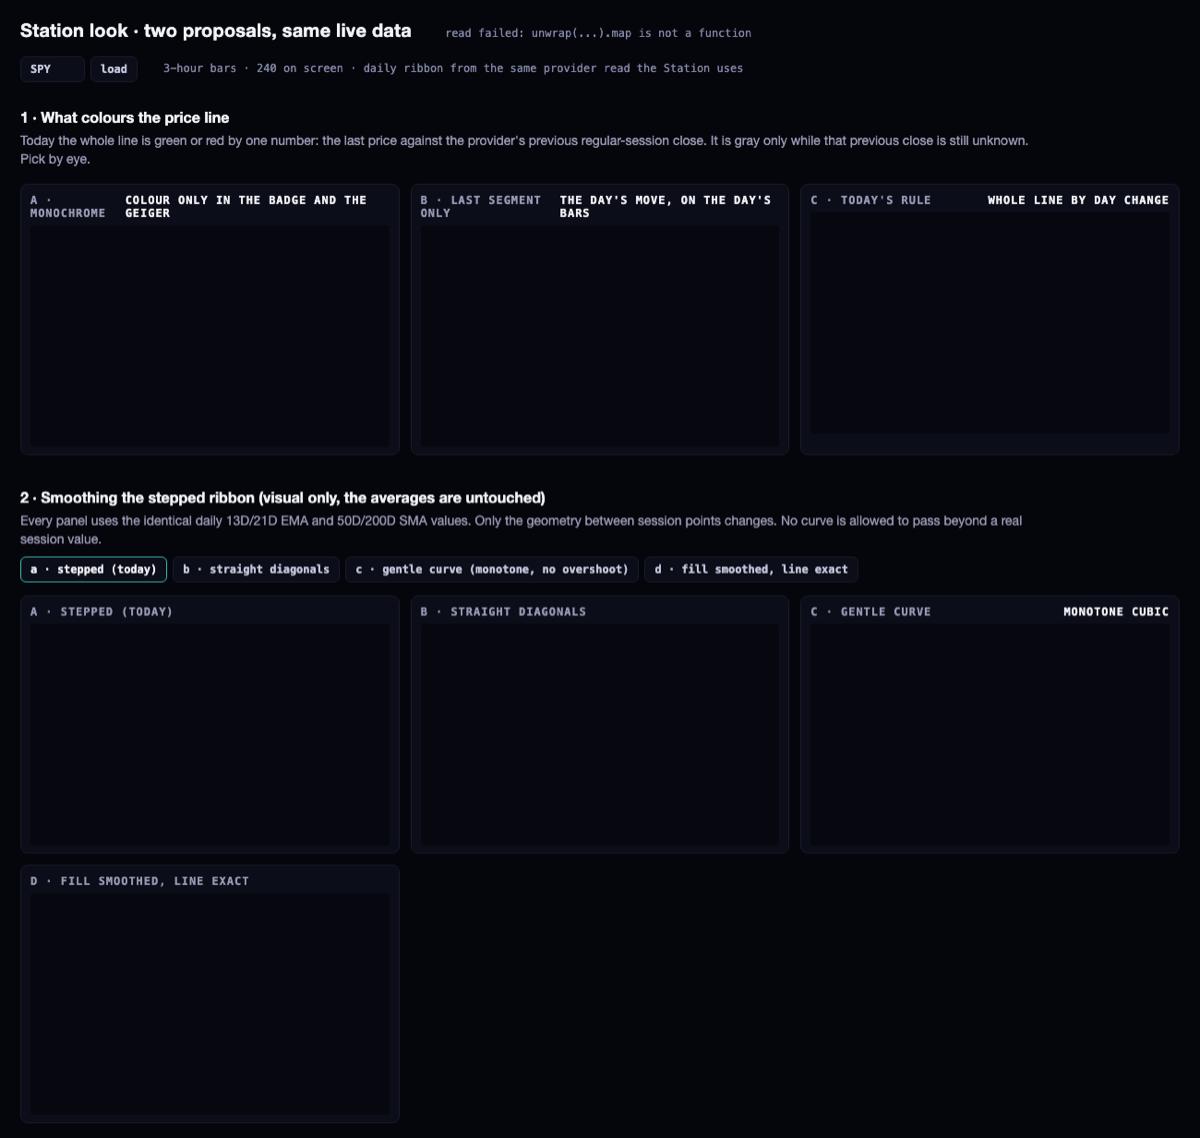
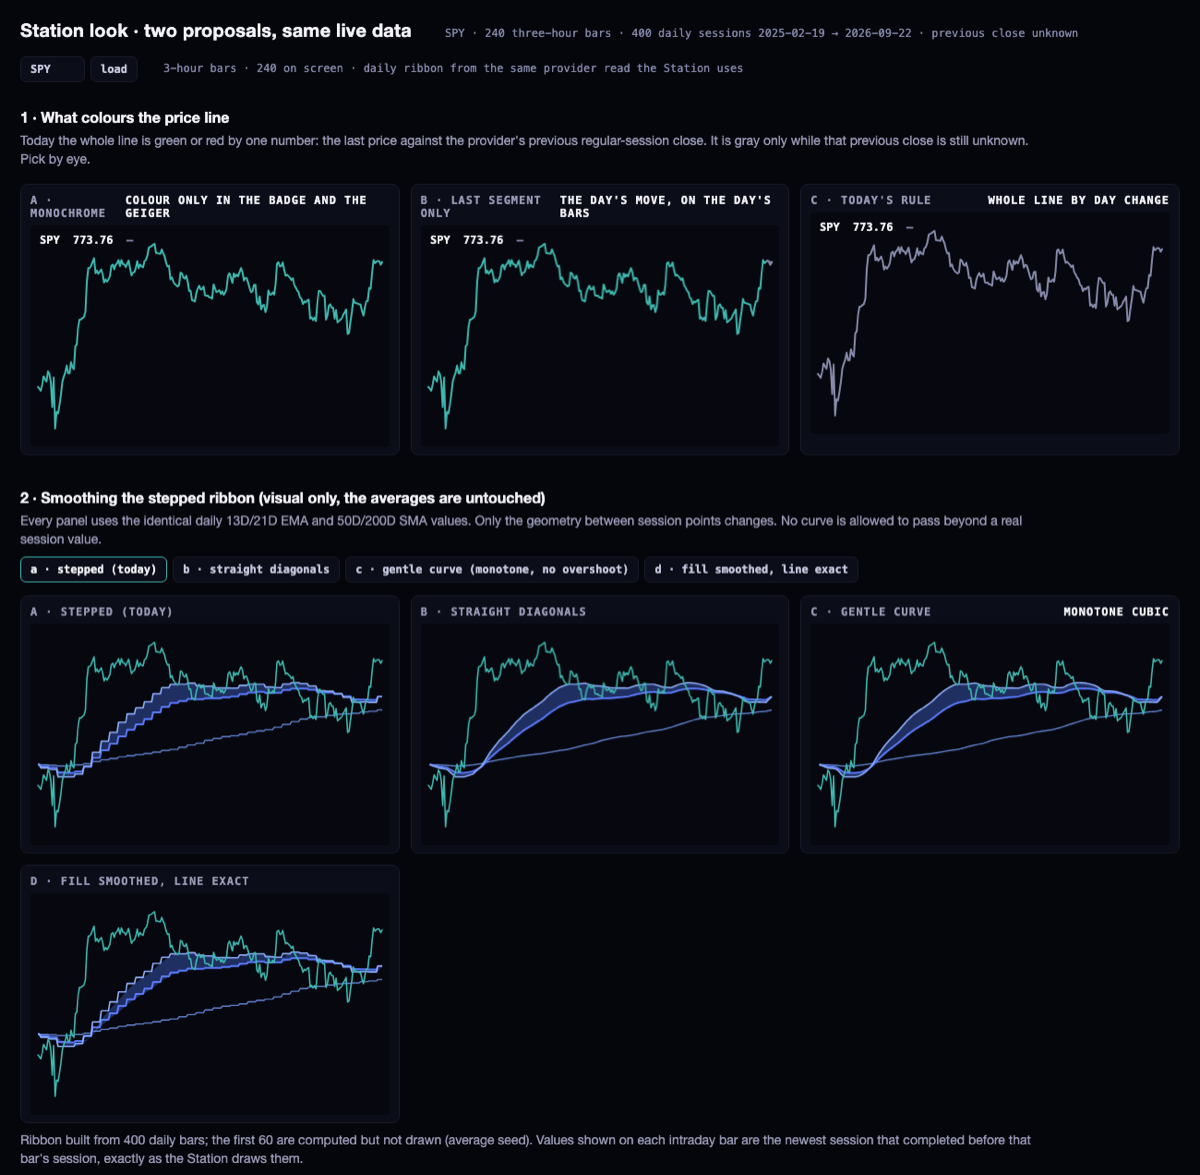
proposals page: read the bar array the chart API actually returns

diff --git a/proposals/station-look/index.html b/proposals/station-look/index.html
@@ -49,7 +49,7 @@ canvas{ width:100%; height:240px; display:block; background:#07080f; border-radi
 const $ = (id) => document.getElementById(id);
 const SC = window.SC_CLOUDS;
 const API = "https://scintilla-massive-chart-api.fly.dev"; /* the same read-only endpoints provider.js uses */
-const unwrap = (j) => Array.isArray(j) ? j : (j && (j.candles || j.rows || j.data || j.bars || j.quotes)) || [];
+const unwrap = (j) => { if (Array.isArray(j)) return j; if (!j || typeof j !== "object") return []; const keys = Object.keys(j).filter((k) => Array.isArray(j[k]) && j[k].length && typeof j[k][0] === "object"); const best = keys.find((k) => ("close" in j[k][0]) || ("c" in j[k][0]) || ("price" in j[k][0]) || ("prev_close" in j[k][0])) || keys[0]; return best ? j[best] : []; };
 const toPts = (rows) => unwrap(rows).map((r) => { const ts = r.timestamp ?? r.t ?? r.time; const t = ts > 1e12 ? ts : ts * 1000; return { d:new Date(t).toISOString(), t, p:+(r.close ?? r.c) }; }).filter((q) => q.p > 0 && Number.isFinite(q.t)).sort((a, b) => a.t - b.t);
 const TFAPI = { "3h":"180", "1D":"D" };
 async function candles(sym, tf, limit) { const r = await fetch(API + "/candles?symbol=" + encodeURIComponent(sym) + "&tf=" + TFAPI[tf] + "&authority=provider&limit=" + limit); if (!r.ok) throw new Error("candles " + r.status); return toPts(await r.json()); }
